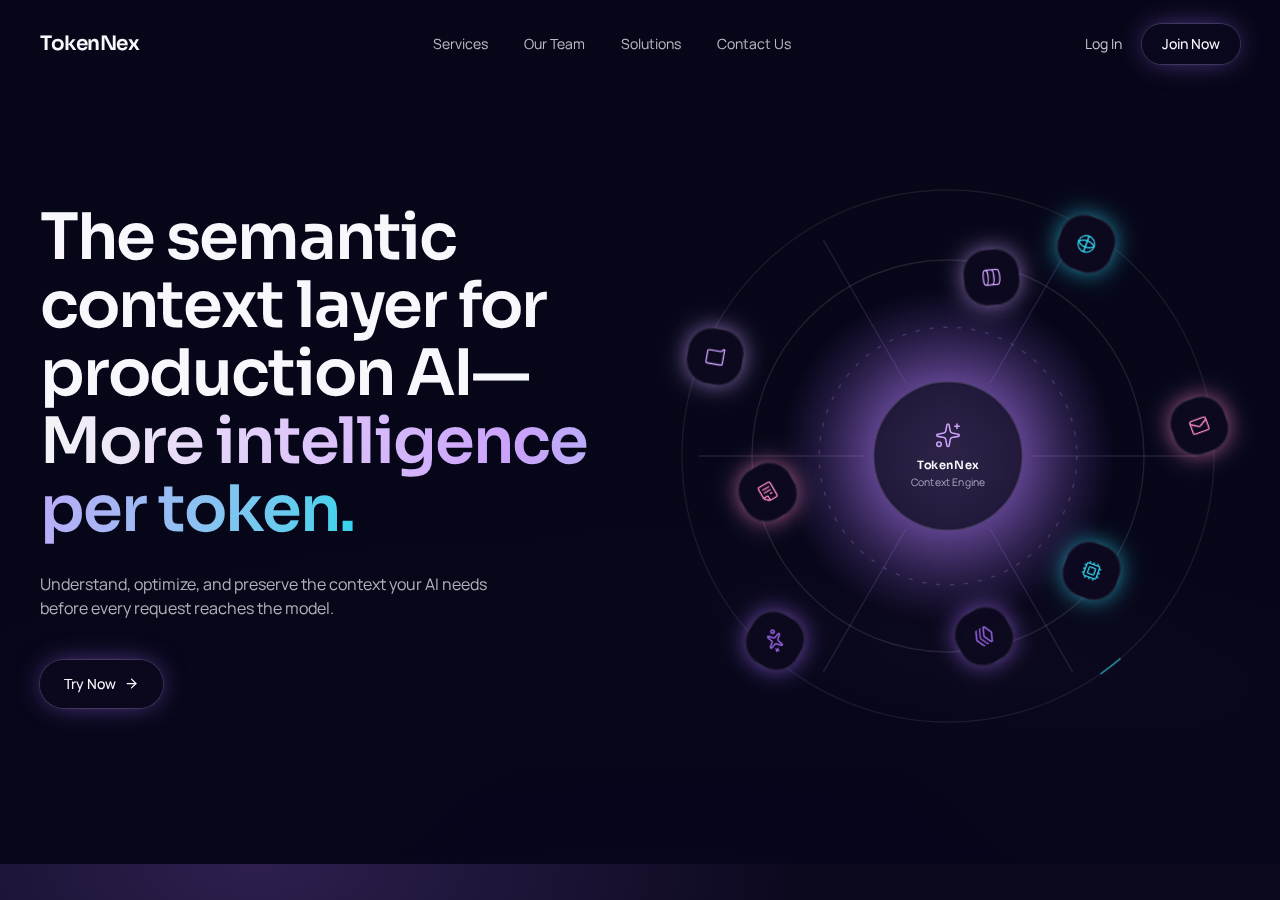
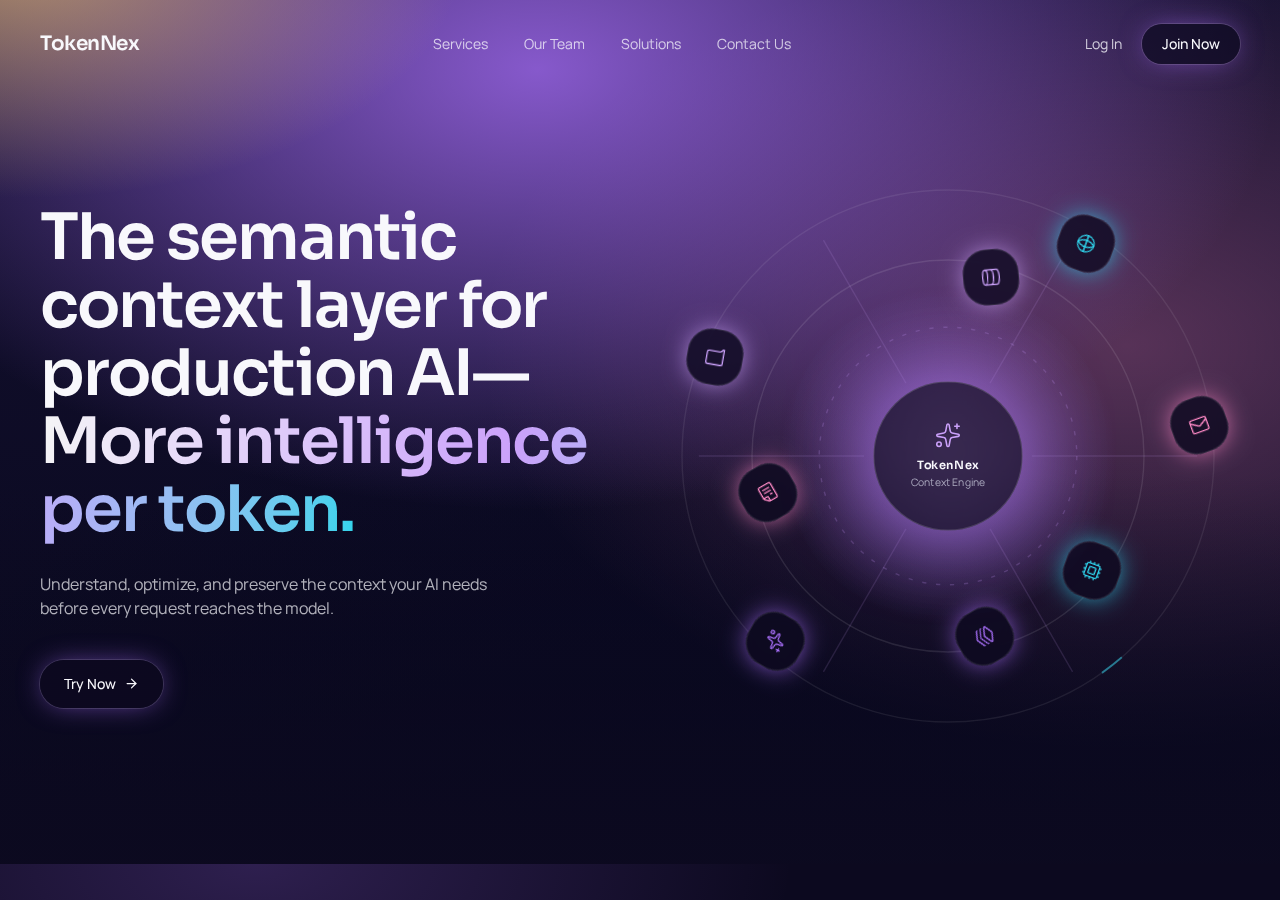
Changes

diff --git a/src/styles.css b/src/styles.css
@@ -120,21 +120,13 @@
 
 @utility ambient {
   background:
-    radial-gradient(
-      55% 45% at 2% -5%,
-      color-mix(in oklab, var(--amber) 65%, transparent),
-      transparent 62%
-    ),
-    radial-gradient(
-      85% 75% at 42% 8%,
-      color-mix(in oklab, var(--violet) 78%, transparent),
-      transparent 68%
-    ),
-    radial-gradient(
-      70% 65% at 88% 40%,
-      color-mix(in oklab, var(--pink) 30%, transparent),
-      transparent 72%
-    ),
-    radial-gradient(100% 85% at 55% 105%, oklch(0.14 0.05 275), transparent 72%),
-    linear-gradient(180deg, oklch(0.2 0.06 285), oklch(0.15 0.045 280));
+    radial-gradient(55% 45% at 2% -5%, oklch(0.85 0.11 80 / 0.55), transparent 60%),
+    radial-gradient(85% 78% at 40% 6%, oklch(0.6 0.2 300 / 0.85), transparent 68%),
+    radial-gradient(70% 65% at 90% 42%, oklch(0.7 0.16 350 / 0.28), transparent 72%),
+    radial-gradient(95% 80% at 55% 108%, oklch(0.13 0.05 275 / 0.95), transparent 72%),
+    linear-gradient(180deg, oklch(0.21 0.06 288), oklch(0.15 0.045 282));
+}
+
+@utility glow-violet {
+  background: radial-gradient(60% 55% at var(--gx, 50%) var(--gy, 0%), oklch(0.6 0.2 300 / 0.3), transparent 70%);
 }
